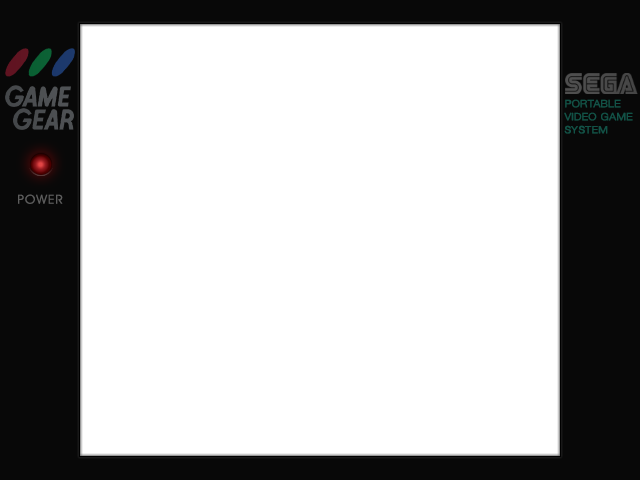
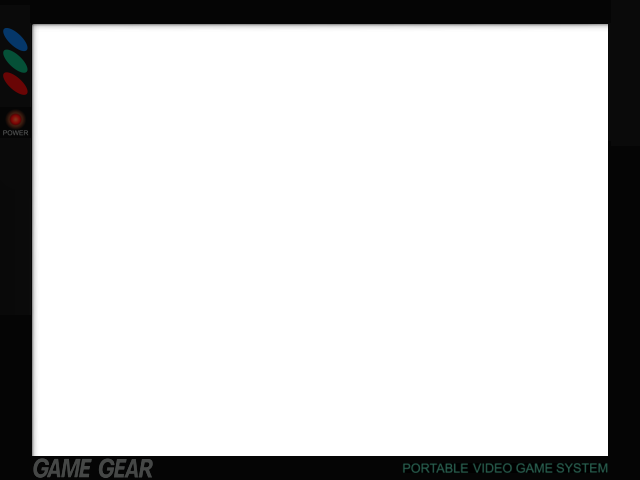
update gamegear to correct aspect ratio, update readme

Changed region(s): [[0.0, 0.0312, 1.0, 1.0]]

diff --git a/README.md b/README.md
@@ -1,6 +1,6 @@
 # rg35xx_bezels
 
-These bezels have been taken from https://github.com/drkhrse/drkhrse_miyoo_bezels. Thank you to drkhrse for creating these bezels - I have just modified them to work with Batocera.
+These bezels have been taken from https://github.com/drkhrse/drkhrse_miyoo_bezels and https://github.com/antiKk/muOS-Overlays. I have just created the necessary .info files so they are compatible with Batocera.
 
 ## Installation
 
@@ -9,4 +9,4 @@ Copy the decorations folder to the userdata partition of your batocera sd card. 
 You may unset any integer scaling options you may have set for these consoles as the .info files will set the integer scaling for you (for the systems with int scaling bezels).
 
 ## Acknowledgements
-Big thanks to [drkhrse](https://github.com/drkhrse) for creating the original bezels!
+Big thanks to [drkhrse](https://github.com/drkhrse) and [antiKk](https://github.com/antiKk) for creating the original bezels.
